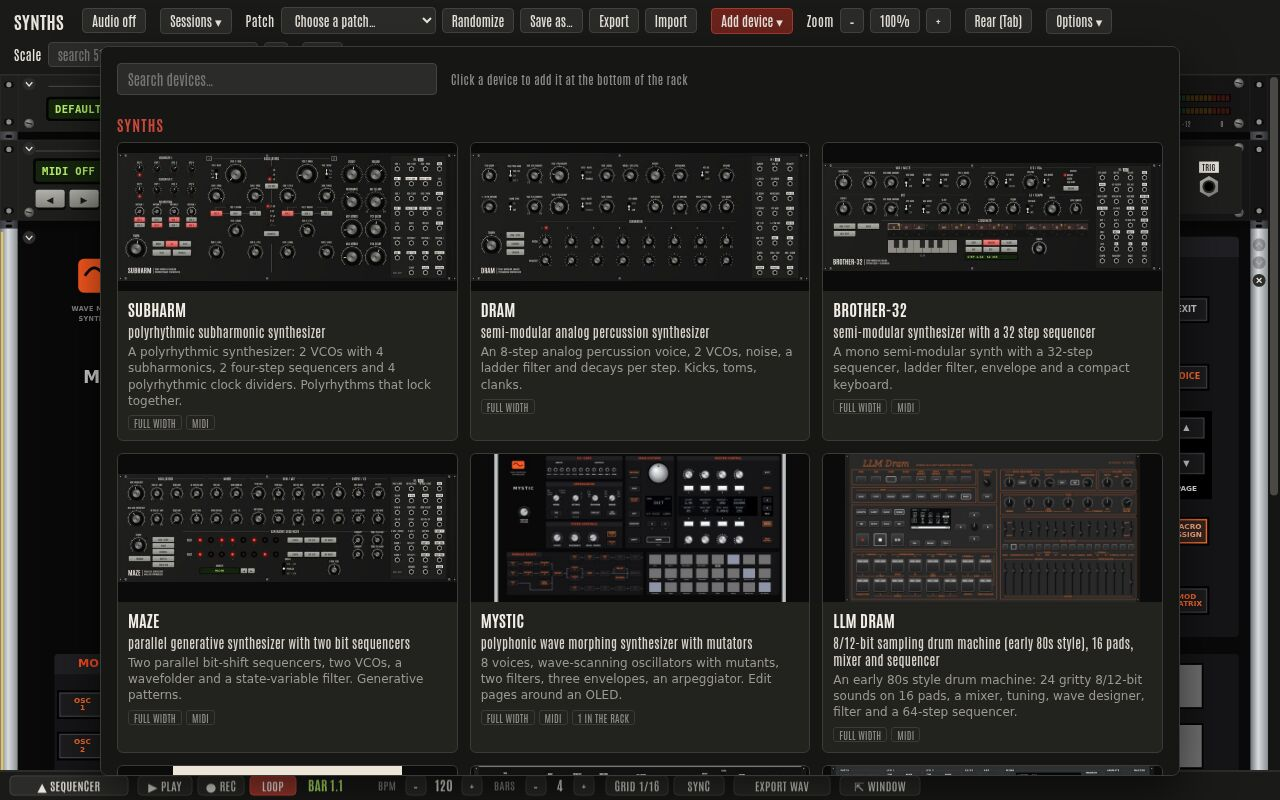
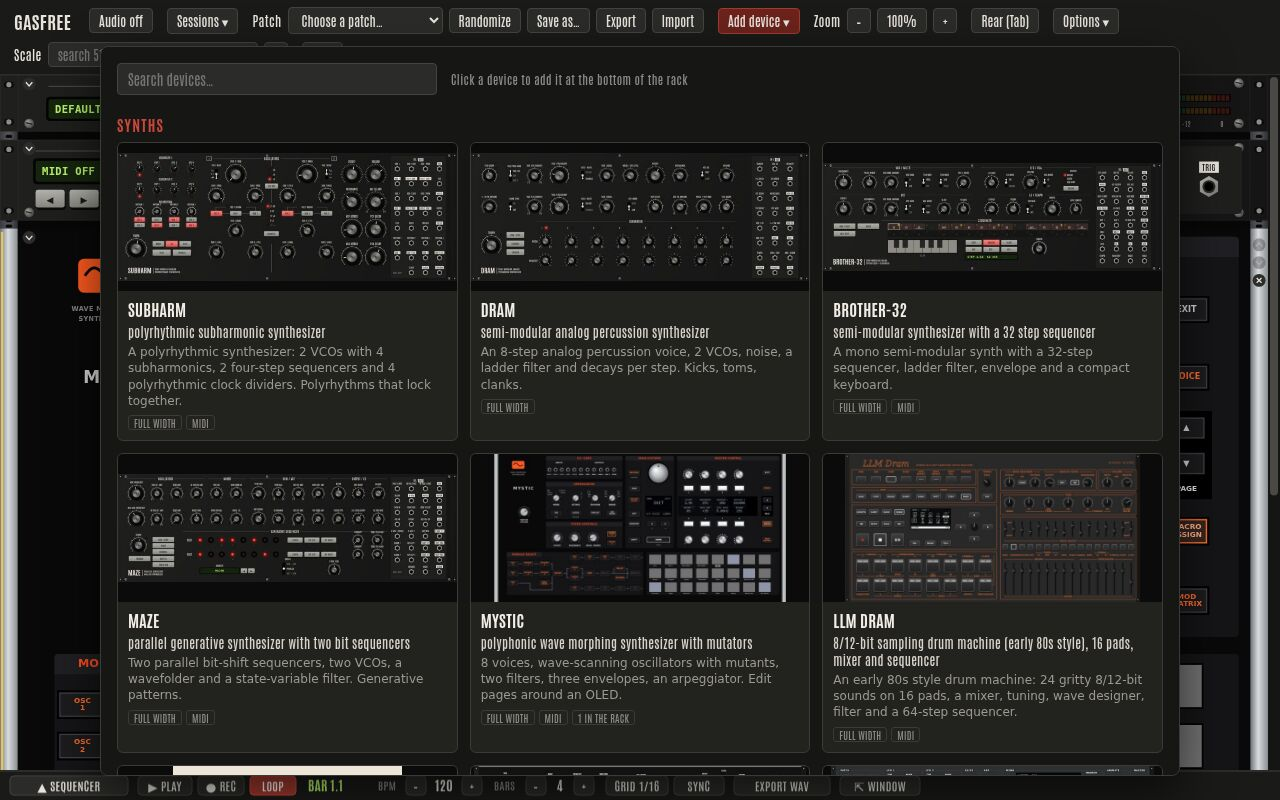
Rename the app to GASFREE (GAS, Gear Acquisition Syndrome, and FREE)
- the toolbar, page titles, meta tags, Help, the detached sequencer's
  window, the README and the home page (with a line on the name)
- the home page screenshots taken again

diff --git a/index.html b/index.html
@@ -3,20 +3,20 @@
 <head>
 <meta charset="utf-8" />
 <meta name="viewport" content="width=device-width, initial-scale=1" />
-<title>SYNTHS</title>
+<title>GASFREE</title>
 <meta name="description" content="A rack of semi-modular synthesizers in the browser, built with the WebAudio API: the SUBHARM, DRAM, BROTHER-32 and MAZE synthesizers, a mixer, LFOs, compressors, reverbs and delays, patchable front and back." />
 <!-- link previews (Open Graph / Twitter); image URLs must be absolute -->
 <meta property="og:type" content="website" />
-<meta property="og:title" content="SYNTHS: a modular synth rack in the browser" />
+<meta property="og:title" content="GASFREE: a modular synth rack in the browser" />
 <meta property="og:description" content="A rack of semi-modular synthesizers in the browser, built with the WebAudio API: the SUBHARM, DRAM, BROTHER-32 and MAZE synthesizers, a mixer, LFOs, compressors, reverbs and delays, patchable front and back." />
 <meta property="og:url" content="https://tamats.com/projects/synth/" />
 <meta property="og:image" content="https://tamats.com/projects/synth/preview.jpg" />
 <meta property="og:image:type" content="image/jpeg" />
 <meta property="og:image:width" content="1600" />
 <meta property="og:image:height" content="962" />
-<meta property="og:image:alt" content="The SYNTHS rack: synthesizer panels with knobs, sequencers and patch cables" />
+<meta property="og:image:alt" content="The GASFREE rack: synthesizer panels with knobs, sequencers and patch cables" />
 <meta name="twitter:card" content="summary_large_image" />
-<meta name="twitter:title" content="SYNTHS: a modular synth rack in the browser" />
+<meta name="twitter:title" content="GASFREE: a modular synth rack in the browser" />
 <meta name="twitter:description" content="A rack of semi-modular synthesizers in the browser, built with the WebAudio API: the SUBHARM, DRAM, BROTHER-32 and MAZE synthesizers, a mixer, LFOs, compressors, reverbs and delays, patchable front and back." />
 <meta name="twitter:image" content="https://tamats.com/projects/synth/preview.jpg" />
 <link rel="preconnect" href="https://fonts.gstatic.com">
@@ -107,7 +107,7 @@
 </head>
 <body>
 <header>
-	<span class="title">SYNTHS</span>
+	<span class="title">GASFREE</span>
 	<div class="group">
 		<button id="power" title="Start / suspend the audio engine">Audio off</button>
 	</div>
@@ -159,7 +159,7 @@
 	<div id="help-wrap">
 		<button id="help-btn" title="How to use the rack">Help</button>
 		<div id="help-panel" hidden>
-			<p class="help-about"><a href="home/" target="_blank">About SYNTHS: the devices and screenshots</a></p>
+			<p class="help-about"><a href="home/" target="_blank">About GASFREE: the devices and screenshots</a></p>
 			<h3>Mouse</h3>
 			<ul>
 				<li><b>Knobs, sliders:</b> drag up / down (Shift: fine). Double-click: the default. The wheel over a knob turns it (Options can turn that off).</li>
@@ -193,29 +193,29 @@
 </header>
 <canvas id="panel"></canvas>
 <canvas id="seq"></canvas>
-<script src="webrack.js?v=20261018h"></script>
+<script src="webrack.js?v=20261018i"></script>
 <!-- synths: each registers itself in the rack (panel here, DSP in its -worklet.js) -->
-<script src="devices/subharm.js?v=20261018h"></script>
-<script src="devices/dram.js?v=20261018h"></script>
-<script src="devices/b32.js?v=20261018h"></script>
-<script src="devices/maze.js?v=20261018h"></script>
-<script src="devices/mystic.js?v=20261018h"></script>
-<script src="devices/llmdram.js?v=20261018h"></script>
-<script src="devices/lunar.js?v=20261018h"></script>
-<script src="devices/mixer.js?v=20261018h"></script>
-<script src="devices/lfo.js?v=20261018h"></script>
-<script src="devices/comp.js?v=20261018h"></script>
-<script src="devices/reverb.js?v=20261018h"></script>
-<script src="devices/delay.js?v=20261018h"></script>
-<script src="devices/universe.js?v=20261018h"></script>
-<script src="devices/hyper.js?v=20261018h"></script>
-<script src="devices/cosmos.js?v=20261018h"></script>
-<script src="devices/pollyd.js?v=20261018h"></script>
-<script src="devices/grid.js?v=20261018h"></script>
-<script src="devices/mount.js?v=20261018h"></script>
-<script src="devices/reroute.js?v=20261018h"></script>
-<script src="code.js?v=20261018h"></script>
-<script src="sequencer.js?v=20261018h"></script>
-<script src="sessions.js?v=20261018h"></script>
+<script src="devices/subharm.js?v=20261018i"></script>
+<script src="devices/dram.js?v=20261018i"></script>
+<script src="devices/b32.js?v=20261018i"></script>
+<script src="devices/maze.js?v=20261018i"></script>
+<script src="devices/mystic.js?v=20261018i"></script>
+<script src="devices/llmdram.js?v=20261018i"></script>
+<script src="devices/lunar.js?v=20261018i"></script>
+<script src="devices/mixer.js?v=20261018i"></script>
+<script src="devices/lfo.js?v=20261018i"></script>
+<script src="devices/comp.js?v=20261018i"></script>
+<script src="devices/reverb.js?v=20261018i"></script>
+<script src="devices/delay.js?v=20261018i"></script>
+<script src="devices/universe.js?v=20261018i"></script>
+<script src="devices/hyper.js?v=20261018i"></script>
+<script src="devices/cosmos.js?v=20261018i"></script>
+<script src="devices/pollyd.js?v=20261018i"></script>
+<script src="devices/grid.js?v=20261018i"></script>
+<script src="devices/mount.js?v=20261018i"></script>
+<script src="devices/reroute.js?v=20261018i"></script>
+<script src="code.js?v=20261018i"></script>
+<script src="sequencer.js?v=20261018i"></script>
+<script src="sessions.js?v=20261018i"></script>
 </body>
 </html>

diff --git a/home/index.html b/home/index.html
@@ -3,9 +3,9 @@
 <head>
 <meta charset="utf-8" />
 <meta name="viewport" content="width=device-width, initial-scale=1, viewport-fit=cover" />
-<title>SYNTHS · a rack of synthesizers in the browser</title>
-<meta name="description" content="SYNTHS: a rack of synthesizers, drum machines and effects that runs in the browser. Patch cables, a song sequencer, MIDI, and nothing to install." />
-<meta property="og:title" content="SYNTHS" />
+<title>GASFREE · a rack of synthesizers in the browser</title>
+<meta name="description" content="GASFREE: a rack of synthesizers, drum machines and effects that runs in the browser. Patch cables, a song sequencer, MIDI, and nothing to install." />
+<meta property="og:title" content="GASFREE" />
 <meta property="og:description" content="A rack of synthesizers, drum machines and effects in the browser." />
 <meta property="og:image" content="img/rack.jpg" />
 <link rel="preconnect" href="https://fonts.googleapis.com">
@@ -48,7 +48,9 @@
 	.hero { padding: 72px 0 40px; text-align: center; background: radial-gradient(1200px 500px at 50% -10%, rgba(226,87,76,0.16), transparent 70%); }
 	.hero h1 { font-size: clamp(56px, 11vw, 120px); letter-spacing: 0.14em; }
 	.hero h1 span { color: var(--accent); }
-	.hero .sub { font: 500 clamp(20px, 3vw, 28px) var(--head); letter-spacing: 0.06em; margin: 14px 0 10px; }
+	.hero .sub { font: 500 clamp(20px, 3vw, 28px) var(--head); letter-spacing: 0.06em; margin: 14px 0 4px; }
+	.hero .why { color: var(--accent2); font: 500 18px var(--head); letter-spacing: 0.08em; margin-bottom: 14px; }
+	.hero .why abbr { text-decoration: underline dotted; cursor: help; }
 	.hero p.lead { color: var(--dim); max-width: 680px; margin: 0 auto 32px; font-size: 18px; }
 	.hero .cta { display: flex; gap: 14px; justify-content: center; flex-wrap: wrap; }
 	.hero .note { color: var(--dim); font-size: 13px; margin-top: 14px; }
@@ -116,7 +118,7 @@
 <body>
 <header class="top">
 	<div class="wrap">
-		<a class="logo" href="#">SYNTH<span>S</span></a>
+		<a class="logo" href="#">GAS<span>FREE</span></a>
 		<nav>
 			<a href="#features">Features</a>
 			<a href="#screenshots">Screenshots</a>
@@ -129,8 +131,9 @@
 
 <div class="hero">
 	<div class="wrap">
-		<h1>SYNTH<span>S</span></h1>
+		<h1>GAS<span>FREE</span></h1>
 		<div class="sub">A rack of synthesizers in your browser</div>
+		<div class="why">All the gear, none of the <abbr title="Gear Acquisition Syndrome: the urge to buy one more synth">GAS</abbr>.</div>
 		<p class="lead">Synthesizers, drum machines, sequencers and effects that you patch together with cables. Play them from the computer keyboard or a MIDI controller, and write songs in the built-in sequencer. Nothing to install.</p>
 		<div class="cta">
 			<a class="btn" href="../"><svg viewBox="0 0 24 24" fill="currentColor" aria-hidden="true"><path d="M8 5v14l11-7z"/></svg>Launch the app</a>
@@ -236,7 +239,7 @@
 
 <footer>
 	<div class="wrap">
-		<span>SYNTHS · a browser rack of synthesizers</span>
+		<span>GASFREE · a browser rack of synthesizers</span>
 		<span>All instruments are original designs. Not affiliated with any instrument manufacturer.</span>
 	</div>
 </footer>

diff --git a/sequencer.js b/sequencer.js
@@ -1119,7 +1119,7 @@ function detach()
 	var links = Array.prototype.map.call( document.querySelectorAll( "link[rel=stylesheet], link[rel=preconnect]" ), function(l){ return l.outerHTML; } ).join( "" );
 	var d = w.document;
 	d.open();
-	d.write( '<!doctype html><html><head><meta charset="utf-8"><title>SYNTHS \u00b7 SEQUENCER</title>' + links +
+	d.write( '<!doctype html><html><head><meta charset="utf-8"><title>GASFREE \u00b7 SEQUENCER</title>' + links +
 		'<style>html, body { margin: 0; height: 100%; background: #111110; overflow: hidden; } canvas { display: block; width: 100%; }</style></head><body></body></html>' );
 	d.close();
 	pop = { win: w, parent: cv.parentNode, next: cv.nextSibling, open: view.open };

diff --git a/webrack.js b/webrack.js
@@ -13,7 +13,7 @@ var WR = {
 	order: []
 };
 
-WR.VERSION = "20261018h"; // bump together with the ?v= in index.html so browsers reload the scripts
+WR.VERSION = "20261018i"; // bump together with the ?v= in index.html so browsers reload the scripts
 
 // def: {
 //   title, description,           names for menus and the panel

diff --git a/README.md b/README.md
@@ -1,6 +1,6 @@
-# SYNTHS
+# GASFREE
 
-**SYNTHS** is a browser rack of synthesizers built on the WebAudio API, inspired by classic instruments: a polyrhythmic synthesizer (Subharm), an analog percussion synthesizer (DRAM), a semi-modular synthesizer with a 32 step sequencer (Brother-32), a generative synthesizer (Maze), wave-scanning and wavetable polyphonic synthesizers (Mystic, Mount), a four-oscillator paraphonic synthesizer (Para D), an early 80s style drum machine (LLM Dram), an ambient drone machine (Lunar 21) and a note grid sequencer (Grid 32), plus a granular looper (Universe), a multi-algorithm reverb (Cosmos) and a lo-fi distortion (Hyper), with a mixer, LFOs, compressors, reverbs and delays, all patchable with each other. Every name in it is its own; it is not affiliated with any instrument maker.
+**GASFREE** (from GAS, Gear Acquisition Syndrome, and FREE: all the gear, none of the buying) is a browser rack of synthesizers built on the WebAudio API, inspired by classic instruments: a polyrhythmic synthesizer (Subharm), an analog percussion synthesizer (DRAM), a semi-modular synthesizer with a 32 step sequencer (Brother-32), a generative synthesizer (Maze), wave-scanning and wavetable polyphonic synthesizers (Mystic, Mount), a four-oscillator paraphonic synthesizer (Para D), an early 80s style drum machine (LLM Dram), an ambient drone machine (Lunar 21) and a note grid sequencer (Grid 32), plus a granular looper (Universe), a multi-algorithm reverb (Cosmos) and a lo-fi distortion (Hyper), with a mixer, LFOs, compressors, reverbs and delays, all patchable with each other. Every name in it is its own; it is not affiliated with any instrument maker.
 
 All synthesis runs in real time in one `AudioWorkletProcessor` (`rack-worklet.js`), which hosts each synth's DSP and copies the patch cables between them every sample. Oscillators, filters, envelopes, clocks, sequencers and the cables are all computed per sample, so patching between synths is sample-accurate. The reverb and delay are native WebAudio nodes after it.
 
